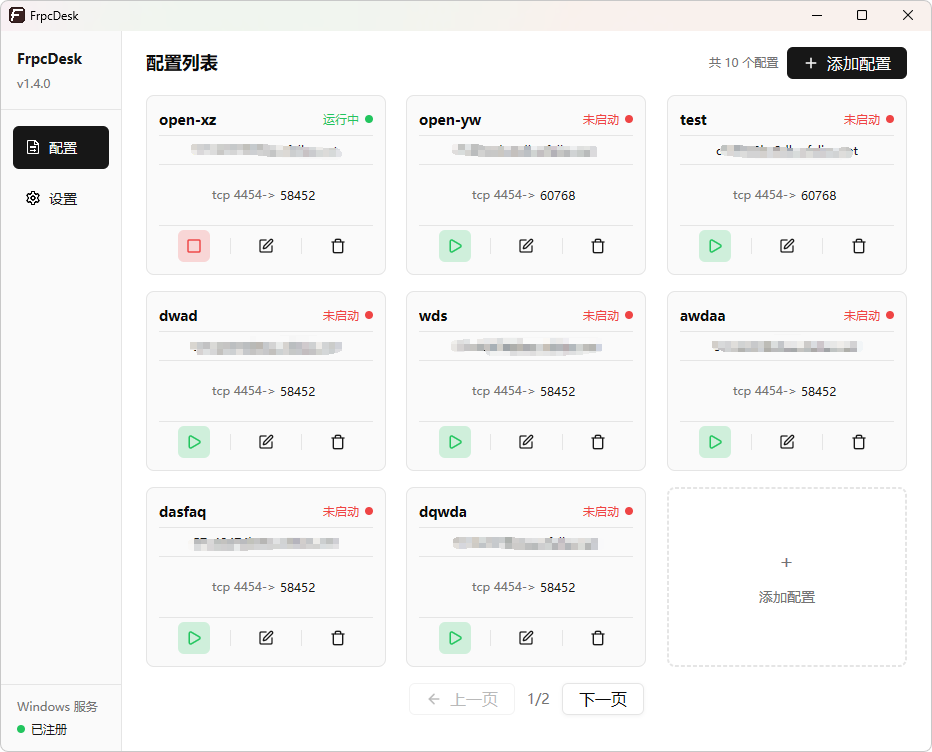
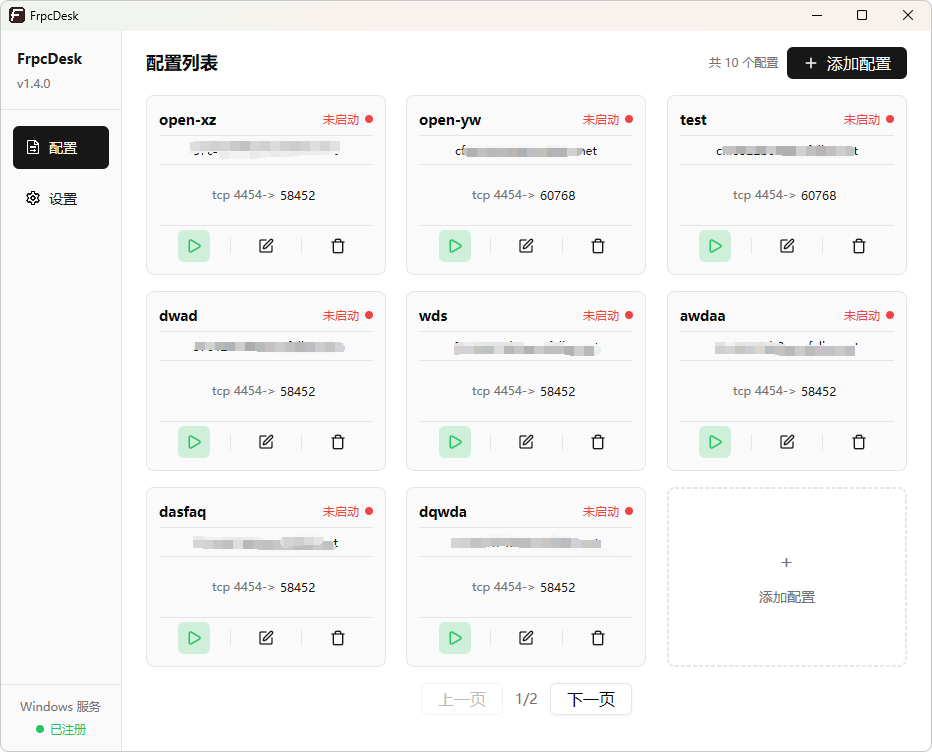
refactor: 进程守护逻辑调整

diff --git a/src/app.rs b/src/app.rs
@@ -140,15 +140,34 @@ impl AppView {
         };
         match config::save_settings(&settings) {
             Ok(()) => {
-                // 通知 Service 重新加载设置
-                service::signal_guard_changed();
-                let msg = if self.process_guard {
-                    "进程守护已开启".to_string()
+                if self.process_guard {
+                    // 开启进程守护：启动 Service，Service 读取设置后持续运行监控
+                    match service::start_service() {
+                        Ok(()) => {
+                            self.set_status_message(
+                                "进程守护已开启，服务已启动".to_string(),
+                                MessageLevel::Success,
+                                cx,
+                            );
+                        }
+                        Err(e) => {
+                            self.set_status_message(
+                                format!("启动服务失败: {}", e),
+                                MessageLevel::Error,
+                                cx,
+                            );
+                        }
+                    }
                 } else {
-                    "进程守护已关闭".to_string()
-                };
+                    // 关闭进程守护：通知 Service 退出
+                    service::signal_guard_changed();
+                    self.set_status_message(
+                        "进程守护已关闭".to_string(),
+                        MessageLevel::Success,
+                        cx,
+                    );
+                }
                 log::info!("进程守护设置已变更: {}", self.process_guard);
-                self.set_status_message(msg, MessageLevel::Success, cx);
             }
             Err(e) => {
                 log::error!("保存进程守护设置失败: {}", e);
@@ -715,13 +734,12 @@ impl AppView {
                     Ok(()) => {
                         v.service_registered = true;
 
-                        // 注册服务后 Service 会启动所有自启动配置，清空手动停止列表
-                        // 避免 stopped_configs 阻止健康监控同步 Service 拉起的进程到 UI
+                        // 注册服务后清空手动停止列表
+                        // Service 不会立即启动，重启电脑后才生效
                         v.stopped_configs.clear();
-                        service::send_guard_stopped_command("CLEAR");
 
                         v.set_status_message(
-                            "注册成功，服务已启动".to_string(),
+                            "注册成功，重启电脑后生效".to_string(),
                             MessageLevel::Success,
                             cx,
                         );

diff --git a/src/service.rs b/src/service.rs
@@ -391,10 +391,7 @@ pub(crate) fn install_service() -> Result<()> {
             ServiceAccess::all(),
         )
         .context("创建服务失败，请确保以管理员身份运行")?;
-    log::info!("服务 {} 已成功注册", SERVICE_NAME);
-
-    // 立即启动服务
-    start_service()?;
+    log::info!("服务 {} 已成功注册（重启电脑后生效）", SERVICE_NAME);
 
     Ok(())
 }
@@ -534,6 +531,14 @@ fn run_service() -> Result<()> {
     }
     set_service_status(&status_handle, ServiceState::Running)?;
 
+    // 进程守护未开启时：启动自启动配置后立即退出
+    // frpc 进程会继续作为孤儿进程运行
+    if !settings.process_guard {
+        log::info!("进程守护未开启，服务退出（已启动自启动配置）");
+        set_service_status(&status_handle, ServiceState::Stopped)?;
+        return Ok(());
+    }
+
     // auto_start_map 共享给管道线程（TRACK 命令需要查找 exe/conf）
     let auto_start_map = Arc::new(discover_auto_start_map());
 
@@ -571,9 +576,9 @@ fn run_service() -> Result<()> {
                     "收到进程守护变更信号，process_guard={}",
                     settings.process_guard
                 );
-                // 开启进程守护时，清理已在守护关闭期间退出的进程
-                // 只监控开启后存活的进程，避免重启之前已死的进程
                 if settings.process_guard {
+                    // 开启进程守护：清理已在守护关闭期间退出的进程
+                    // 只监控开启后存活的进程，避免重启之前已死的进程
                     let mut proc_list = processes.lock().unwrap();
                     let before = proc_list.len();
                     proc_list.retain(|(_, proc)| FrpcProcess::is_pid_running(proc.pid()));
@@ -587,17 +592,21 @@ fn run_service() -> Result<()> {
                     } else {
                         log::info!("进程守护已开启，当前跟踪 {} 个进程", after);
                     }
+                } else {
+                    // 关闭进程守护：退出服务，frpc 进程继续作为孤儿进程运行
+                    log::info!("进程守护已关闭，服务退出");
+                    unsafe {
+                        CloseHandle(guard_event);
+                        CloseHandle(process_changed_event);
+                    }
+                    set_service_status(&status_handle, ServiceState::Stopped)?;
+                    return Ok(());
                 }
             }
             WAIT_TIMEOUT => {} // 超时，继续检查进程状态
             _ => {
                 log::error!("WaitForMultipleObjects 返回未知状态: {}", wait_result);
             }
-        }
-
-        // 进程守护未开启时，不监控不重启
-        if !settings.process_guard {
-            continue;
         }
 
         // 进程守护开启：检查是否有进程退出并重启

diff --git a/src/pages/config_list.rs b/src/pages/config_list.rs
@@ -149,7 +149,6 @@ pub fn render(view: &mut AppView, cx: &mut Context<AppView>) -> gpui::AnyElement
             .pb(px(16.0))
             .child(
                 Button::new("btn-prev-page")
-                    .icon(AppIcon::ArrowLeft)
                     .label("上一页")
                     .when(!has_prev, |b| b.disabled(true))
                     .on_click(cx.listener(|view, _event, _window, cx| {

diff --git a/src/sidebar.rs b/src/sidebar.rs
@@ -166,6 +166,7 @@ pub fn render(view: &AppView, cx: &mut Context<AppView>) -> gpui::AnyElement {
                 .py(px(12.0))
                 .flex()
                 .flex_col()
+                .items_center()
                 .gap_y(px(4.0))
                 .child(
                     div()